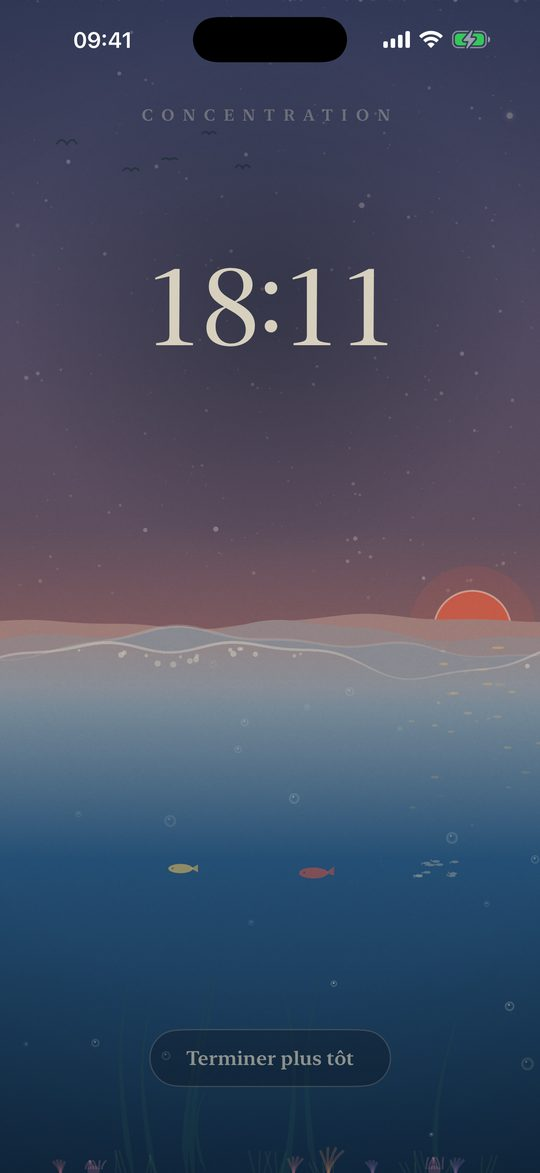
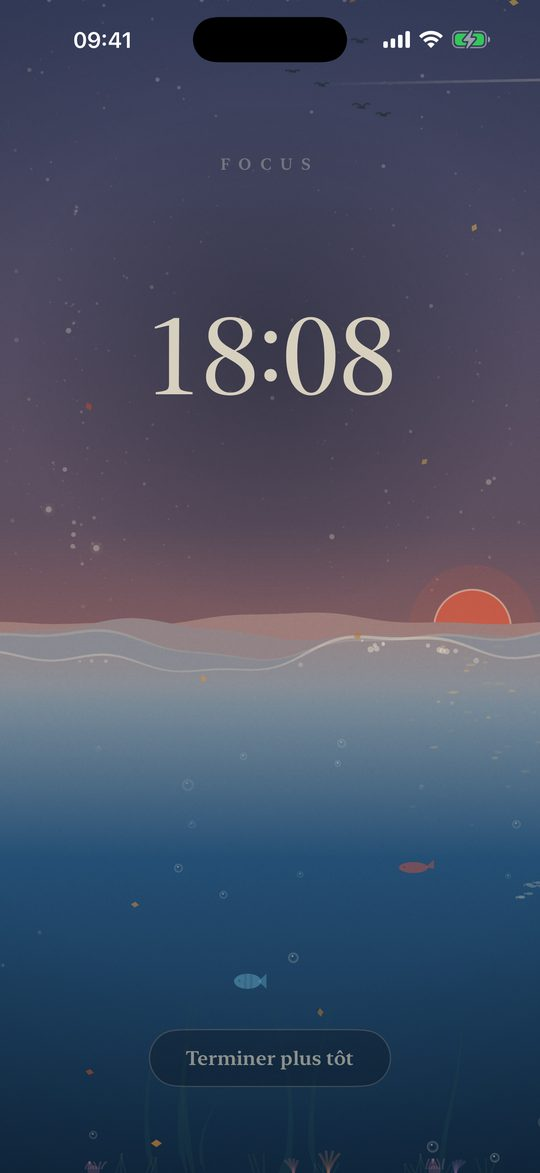
Spanish and German pages, and screenshots retaken in all four languages
The French captures still said CONCENTRATION from July; every page now shows
its own language.

diff --git a/de/index.html b/de/index.html
@@ -1,0 +1,94 @@
+<!DOCTYPE html>
+<html lang="de">
+<head>
+<meta charset="utf-8">
+<meta name="viewport" content="width=device-width, initial-scale=1">
+<title>Cadence: Focus-Timer und App-Blocker für iPhone und Mac</title>
+<meta name="description" content="Ein Focus-Timer mit einer lebendigen Flut im Holzschnitt-Stil. Sperrt ablenkende Apps und Websites während des Focus und nachts, erinnert dich ans Aufstehen und synchronisiert iPhone und Mac. Kein Abo.">
+<link rel="canonical" href="https://arthurpierrey.github.io/cadence/de/">
+<link rel="alternate" hreflang="en" href="https://arthurpierrey.github.io/cadence/">
+<link rel="alternate" hreflang="fr" href="https://arthurpierrey.github.io/cadence/fr/">
+<link rel="alternate" hreflang="es" href="https://arthurpierrey.github.io/cadence/es/">
+<link rel="alternate" hreflang="de" href="https://arthurpierrey.github.io/cadence/de/">
+<link rel="alternate" hreflang="x-default" href="https://arthurpierrey.github.io/cadence/">
+<meta name="apple-itunes-app" content="app-id=6788449816">
+<meta property="og:type" content="website">
+<meta property="og:title" content="Cadence: Focus-Timer und App-Blocker für iPhone und Mac">
+<meta property="og:description" content="Ein Focus-Timer mit einer lebendigen Flut im Holzschnitt-Stil. Sperrt ablenkende Apps und Websites während des Focus und nachts, erinnert dich ans Aufstehen und synchronisiert iPhone und Mac. Kein Abo.">
+<meta property="og:url" content="https://arthurpierrey.github.io/cadence/de/">
+<meta property="og:image" content="https://arthurpierrey.github.io/cadence/img/og.jpg">
+<meta property="og:locale" content="de_DE">
+<meta name="twitter:card" content="summary_large_image">
+<meta name="theme-color" content="#122c44">
+<script type="application/ld+json">{"@context": "https://schema.org", "@type": "SoftwareApplication", "name": "Cadence", "operatingSystem": "iOS, iPadOS, macOS", "applicationCategory": "ProductivityApplication", "description": "Ein Focus-Timer mit einer lebendigen Flut im Holzschnitt-Stil. Sperrt ablenkende Apps und Websites während des Focus und nachts, erinnert dich ans Aufstehen und synchronisiert iPhone und Mac. Kein Abo.", "url": "https://arthurpierrey.github.io/cadence/de/", "downloadUrl": "https://apps.apple.com/app/id6788449816", "image": "https://arthurpierrey.github.io/cadence/img/og.jpg", "offers": {"@type": "Offer", "price": "0", "priceCurrency": "EUR"}, "author": {"@type": "Person", "name": "Arthur Pierrey"}}</script>
+<script type="application/ld+json">{"@context": "https://schema.org", "@type": "FAQPage", "mainEntity": [{"@type": "Question", "name": "Wie sperre ich Apps nachts auf dem iPhone?", "acceptedAnswer": {"@type": "Answer", "text": "Aktiviere die Nachtsperre in Cadence, lege die Uhrzeiten fest und wähle die Apps. Jede Nacht sperrt iOS diese Apps zur gewählten Zeit bis zum Morgen, auch wenn Cadence nicht geöffnet ist."}}, {"@type": "Question", "name": "Ist Cadence ein Pomodoro-Timer?", "acceptedAnswer": {"@type": "Answer", "text": "Es funktioniert wie einer, mit Blick auf die Gesundheit: dreißig Minuten Focus, dann eine kurze Pause im Stehen. Die Focus-Dauer ist einstellbar."}}, {"@type": "Question", "name": "Werden Websites auch in Chrome gesperrt, nicht nur in Safari?", "acceptedAnswer": {"@type": "Answer", "text": "Ja. Während eines Focus werden die Websites der sozialen Netzwerke auf deinem iPhone in allen iOS-Browsern gesperrt, auch in Chrome."}}, {"@type": "Question", "name": "Gibt es ein Abo?", "acceptedAnswer": {"@type": "Answer", "text": "Nein. Cadence ist kostenlos. Das Sperren ist für drei Focus-Sitzungen gratis; danach ist Cadence Premium ein einmaliger Kauf für iPhone, iPad und Mac."}}, {"@type": "Question", "name": "Läuft Cadence auf dem Mac?", "acceptedAnswer": {"@type": "Answer", "text": "Ja, als native App aus dem Mac App Store. Sie blendet die gewählten Apps während eines Focus aus und kann während der Nachtsperre den ganzen Bildschirm abdecken."}}]}</script>
+<style>
+:root{--paper:#f7f0e1;--ink:#22333b;--prussian:#122c44;--seal:#c34f41;--muted:#5b6b73;--card:#efe6cf}
+@media (prefers-color-scheme:dark){:root{--paper:#101e30;--ink:#efe6cf;--muted:#a9b3b8;--card:#172a40}}
+*{box-sizing:border-box}
+body{margin:0;background:var(--paper);color:var(--ink);font-family:Georgia,"Times New Roman",serif;line-height:1.65}
+main{max-width:980px;margin:0 auto;padding:48px 20px 24px}
+header.hero{display:grid;gap:28px;align-items:center}
+@media(min-width:760px){header.hero{grid-template-columns:1.2fr .8fr}}
+h1{font-size:2.6rem;letter-spacing:.3em;text-transform:uppercase;font-weight:500;margin:0 0 6px}
+.tag{font-size:1.25rem;margin:0 0 16px}
+.lede{font-size:1.05rem}
+.cta{display:inline-block;background:var(--seal);color:#f7f0e1;border-radius:999px;padding:12px 28px;text-decoration:none;font-size:1.05rem;margin:8px 0}
+.free{font-size:.92rem;color:var(--muted)}
+.hero img{width:100%;max-width:300px;height:auto;border-radius:28px;justify-self:center;box-shadow:0 12px 40px rgba(0,0,0,.25)}
+h2{font-weight:500;font-size:1.5rem;margin:56px 0 16px}
+.feats{display:grid;gap:18px;grid-template-columns:repeat(auto-fit,minmax(260px,1fr))}
+.feat{background:var(--card);border-radius:16px;padding:18px 20px}
+.feat h3{margin:0 0 6px;font-size:1.08rem;font-weight:600}
+.feat p{margin:0;font-size:.97rem}
+.shots{display:flex;gap:16px;overflow-x:auto;padding-bottom:8px}
+.shots img{height:420px;width:auto;border-radius:22px;flex:none}
+.mac img{width:100%;height:auto;border-radius:14px}
+details{border-top:1px solid rgba(127,127,127,.3);padding:12px 0}
+summary{cursor:pointer;font-weight:600}
+footer{max-width:980px;margin:0 auto;padding:32px 20px 56px;font-size:.88rem;color:var(--muted)}
+footer a{color:inherit}
+</style>
+</head>
+<body>
+<main>
+<header class="hero">
+<div>
+<h1>Cadence</h1>
+<p class="tag">Focus-Timer und App-Blocker für iPhone, iPad und Mac.</p>
+<p class="lede">Dreißig Minuten Deep Work, dann drei Minuten auf den Beinen. Das Meer steigt, während du dich konzentrierst, und sinkt, während du dich bewegst, unter einem lebendigen Holzschnitt-Himmel, der deinem echten Tag und deinem lokalen Wetter folgt.</p>
+<a class="cta" href="https://apps.apple.com/app/id6788449816">Im App Store laden</a>
+<p class="free">Kostenloser Download. Das Sperren ist für drei Focus-Sitzungen kostenlos, danach schaltet ein einziger Kauf es auf all deinen Geräten dauerhaft frei. Kein Abo.</p>
+</div>
+<img src="../img/de-focus.jpg" width="540" height="1173" alt="Ein Focus in der Abenddämmerung: die Flut steigt unter der untergehenden Sonne">
+</header>
+<h2>Was Cadence kann</h2>
+<div class="feats">
+<div class="feat"><h3>Ein Focus-Timer, der dich bewegt</h3><p>Standardmäßig dreißig Minuten Focus und drei Minuten Bewegungspause, einstellbar von 10 bis 50 Minuten. Die Pause dauert ein Zehntel der Arbeitszeit und beginnt von selbst, damit du wirklich aufstehst.</p></div>
+<div class="feat"><h3>Sperrt ablenkende Apps und Websites</h3><p>Wähle mit Apples Bildschirmzeit die Apps, die während eines Focus gesperrt werden. Die Websites der sozialen Netzwerke auf deinem iPhone werden ebenfalls gesperrt, in Safari und in anderen Browsern.</p></div>
+<div class="feat"><h3>Eine Nachtsperre für deine Nächte</h3><p>Wähle zwei Uhrzeiten, etwa 23 und 7 Uhr, und die gewählten Apps sperren sich jede Nacht, auch wenn Cadence geschlossen ist. Auf dem Mac warnt dich ein Countdown zehn Minuten vorher.</p></div>
+<div class="feat"><h3>Deep-Work-Modus</h3><p>Ist er aktiv, lässt sich ein Focus nicht vorzeitig beenden. Die Glocke entscheidet.</p></div>
+<div class="feat"><h3>iPhone, iPad und Mac, synchron</h3><p>Eine native Mac-App mit Timer in der Menüleiste, die die gewählten Apps ausblendet. Sitzungen, Einstellungen und Nachtsperre folgen dir über iCloud.</p></div>
+<div class="feat"><h3>Siri, Widgets, Live-Aktivität</h3><p>Starte oder beende einen Focus mit Siri oder im Kontrollzentrum und verfolge die Flut in der Dynamic Island.</p></div>
+</div>
+<h2>Mac</h2>
+<div class="mac"><img src="../img/mac.jpg" width="1200" height="675" loading="lazy" alt="Cadence auf dem Mac: die Flut in einem frei skalierbaren Fenster"></div>
+<h2>Warum jede halbe Stunde aufstehen</h2>
+<p>Sitzen ist nicht das ganze Problem; ununterbrochenes Sitzen schon. Studien zu ununterbrochener Sitzzeit (Diaz et al., 2017; Duran et al., 2023) und die WHO-Leitlinien von 2020 zeigen in dieselbe Richtung: sie oft unterbrechen. Cadence ist um diesen Rhythmus herum gebaut.</p>
+<div class="shots">
+<img src="../img/de-focus.jpg" width="540" height="1173" loading="lazy" alt="Ein Focus in der Abenddämmerung: die Flut steigt unter der untergehenden Sonne">
+<img src="../img/de-break.jpg" width="540" height="1173" loading="lazy" alt="Eine Bewegungspause im Morgengrauen">
+<img src="../img/de-stats.jpg" width="540" height="1173" loading="lazy" alt="Statistiken: Focus-Zeit pro Tag und pro Typ">
+</div>
+<h2>Privat von Grund auf</h2>
+<p>Kein Konto, keine Werbung, kein Tracking. Cadence sammelt keine Daten: Dein Verlauf bleibt auf deinen Geräten und in deiner eigenen iCloud.</p>
+<h2>Fragen</h2>
+<details><summary>Wie sperre ich Apps nachts auf dem iPhone?</summary><p>Aktiviere die Nachtsperre in Cadence, lege die Uhrzeiten fest und wähle die Apps. Jede Nacht sperrt iOS diese Apps zur gewählten Zeit bis zum Morgen, auch wenn Cadence nicht geöffnet ist.</p></details>
+<details><summary>Ist Cadence ein Pomodoro-Timer?</summary><p>Es funktioniert wie einer, mit Blick auf die Gesundheit: dreißig Minuten Focus, dann eine kurze Pause im Stehen. Die Focus-Dauer ist einstellbar.</p></details>
+<details><summary>Werden Websites auch in Chrome gesperrt, nicht nur in Safari?</summary><p>Ja. Während eines Focus werden die Websites der sozialen Netzwerke auf deinem iPhone in allen iOS-Browsern gesperrt, auch in Chrome.</p></details>
+<details><summary>Gibt es ein Abo?</summary><p>Nein. Cadence ist kostenlos. Das Sperren ist für drei Focus-Sitzungen gratis; danach ist Cadence Premium ein einmaliger Kauf für iPhone, iPad und Mac.</p></details>
+<details><summary>Läuft Cadence auf dem Mac?</summary><p>Ja, als native App aus dem Mac App Store. Sie blendet die gewählten Apps während eines Focus aus und kann während der Nachtsperre den ganzen Bildschirm abdecken.</p></details>
+</main>
+<footer>&copy; 2026 Cadence &middot; <a href="../privacy.html">Datenschutz</a> &middot; <a href="mailto:arthur.pierrey@gmail.com">Kontakt</a> &middot; <a href="../" hreflang="en">English</a> &middot; <a href="../fr/" hreflang="fr">Français</a> &middot; <a href="../es/" hreflang="es">Español</a></footer>
+</body>
+</html>

diff --git a/es/index.html b/es/index.html
@@ -1,0 +1,94 @@
+<!DOCTYPE html>
+<html lang="es">
+<head>
+<meta charset="utf-8">
+<meta name="viewport" content="width=device-width, initial-scale=1">
+<title>Cadence: temporizador de focus y bloqueador de apps para iPhone y Mac</title>
+<meta name="description" content="Un temporizador de focus con una marea viva estilo estampa japonesa. Bloquea las apps y webs que distraen durante el focus y por la noche, te recuerda levantarte y sincroniza iPhone y Mac. Sin suscripción.">
+<link rel="canonical" href="https://arthurpierrey.github.io/cadence/es/">
+<link rel="alternate" hreflang="en" href="https://arthurpierrey.github.io/cadence/">
+<link rel="alternate" hreflang="fr" href="https://arthurpierrey.github.io/cadence/fr/">
+<link rel="alternate" hreflang="es" href="https://arthurpierrey.github.io/cadence/es/">
+<link rel="alternate" hreflang="de" href="https://arthurpierrey.github.io/cadence/de/">
+<link rel="alternate" hreflang="x-default" href="https://arthurpierrey.github.io/cadence/">
+<meta name="apple-itunes-app" content="app-id=6788449816">
+<meta property="og:type" content="website">
+<meta property="og:title" content="Cadence: temporizador de focus y bloqueador de apps para iPhone y Mac">
+<meta property="og:description" content="Un temporizador de focus con una marea viva estilo estampa japonesa. Bloquea las apps y webs que distraen durante el focus y por la noche, te recuerda levantarte y sincroniza iPhone y Mac. Sin suscripción.">
+<meta property="og:url" content="https://arthurpierrey.github.io/cadence/es/">
+<meta property="og:image" content="https://arthurpierrey.github.io/cadence/img/og.jpg">
+<meta property="og:locale" content="es_ES">
+<meta name="twitter:card" content="summary_large_image">
+<meta name="theme-color" content="#122c44">
+<script type="application/ld+json">{"@context": "https://schema.org", "@type": "SoftwareApplication", "name": "Cadence", "operatingSystem": "iOS, iPadOS, macOS", "applicationCategory": "ProductivityApplication", "description": "Un temporizador de focus con una marea viva estilo estampa japonesa. Bloquea las apps y webs que distraen durante el focus y por la noche, te recuerda levantarte y sincroniza iPhone y Mac. Sin suscripción.", "url": "https://arthurpierrey.github.io/cadence/es/", "downloadUrl": "https://apps.apple.com/app/id6788449816", "image": "https://arthurpierrey.github.io/cadence/img/og.jpg", "offers": {"@type": "Offer", "price": "0", "priceCurrency": "EUR"}, "author": {"@type": "Person", "name": "Arthur Pierrey"}}</script>
+<script type="application/ld+json">{"@context": "https://schema.org", "@type": "FAQPage", "mainEntity": [{"@type": "Question", "name": "¿Cómo bloquear apps por la noche en el iPhone?", "acceptedAnswer": {"@type": "Answer", "text": "Activa el toque de queda en Cadence, fija sus horas y elige las apps que bloquear. Cada noche, a la hora indicada, iOS bloquea esas apps hasta la mañana, aunque Cadence no esté abierta."}}, {"@type": "Question", "name": "¿Cadence es un temporizador Pomodoro?", "acceptedAnswer": {"@type": "Answer", "text": "Funciona como uno, con un enfoque de salud: treinta minutos de focus y luego una pausa corta de pie. La duración del focus se puede ajustar."}}, {"@type": "Question", "name": "¿Bloquea webs en Chrome, no solo en Safari?", "acceptedAnswer": {"@type": "Answer", "text": "Sí. Durante un focus, las webs de las redes sociales instaladas en tu iPhone se bloquean en todos los navegadores de iOS, Chrome incluido."}}, {"@type": "Question", "name": "¿Hay suscripción?", "acceptedAnswer": {"@type": "Answer", "text": "No. Cadence se descarga gratis. El bloqueo es gratis durante tres focus; después, Cadence Premium es una compra única que vale para tu iPhone, iPad y Mac."}}, {"@type": "Question", "name": "¿Funciona en el Mac?", "acceptedAnswer": {"@type": "Answer", "text": "Sí, como app nativa del Mac App Store. Oculta las apps que elijas durante un focus y puede cubrir toda la pantalla durante el toque de queda."}}]}</script>
+<style>
+:root{--paper:#f7f0e1;--ink:#22333b;--prussian:#122c44;--seal:#c34f41;--muted:#5b6b73;--card:#efe6cf}
+@media (prefers-color-scheme:dark){:root{--paper:#101e30;--ink:#efe6cf;--muted:#a9b3b8;--card:#172a40}}
+*{box-sizing:border-box}
+body{margin:0;background:var(--paper);color:var(--ink);font-family:Georgia,"Times New Roman",serif;line-height:1.65}
+main{max-width:980px;margin:0 auto;padding:48px 20px 24px}
+header.hero{display:grid;gap:28px;align-items:center}
+@media(min-width:760px){header.hero{grid-template-columns:1.2fr .8fr}}
+h1{font-size:2.6rem;letter-spacing:.3em;text-transform:uppercase;font-weight:500;margin:0 0 6px}
+.tag{font-size:1.25rem;margin:0 0 16px}
+.lede{font-size:1.05rem}
+.cta{display:inline-block;background:var(--seal);color:#f7f0e1;border-radius:999px;padding:12px 28px;text-decoration:none;font-size:1.05rem;margin:8px 0}
+.free{font-size:.92rem;color:var(--muted)}
+.hero img{width:100%;max-width:300px;height:auto;border-radius:28px;justify-self:center;box-shadow:0 12px 40px rgba(0,0,0,.25)}
+h2{font-weight:500;font-size:1.5rem;margin:56px 0 16px}
+.feats{display:grid;gap:18px;grid-template-columns:repeat(auto-fit,minmax(260px,1fr))}
+.feat{background:var(--card);border-radius:16px;padding:18px 20px}
+.feat h3{margin:0 0 6px;font-size:1.08rem;font-weight:600}
+.feat p{margin:0;font-size:.97rem}
+.shots{display:flex;gap:16px;overflow-x:auto;padding-bottom:8px}
+.shots img{height:420px;width:auto;border-radius:22px;flex:none}
+.mac img{width:100%;height:auto;border-radius:14px}
+details{border-top:1px solid rgba(127,127,127,.3);padding:12px 0}
+summary{cursor:pointer;font-weight:600}
+footer{max-width:980px;margin:0 auto;padding:32px 20px 56px;font-size:.88rem;color:var(--muted)}
+footer a{color:inherit}
+</style>
+</head>
+<body>
+<main>
+<header class="hero">
+<div>
+<h1>Cadence</h1>
+<p class="tag">Temporizador de focus y bloqueador de apps para iPhone, iPad y Mac.</p>
+<p class="lede">Treinta minutos de trabajo profundo y luego tres de pie. El mar sube mientras te concentras y baja mientras te mueves, bajo un cielo de estampa vivo que sigue tu día real y el tiempo local.</p>
+<a class="cta" href="https://apps.apple.com/app/id6788449816">Descargar en el App Store</a>
+<p class="free">Descarga gratuita. El bloqueo es gratis durante tres focus; después, una sola compra lo desbloquea para siempre en todos tus dispositivos. Sin suscripción.</p>
+</div>
+<img src="../img/es-focus.jpg" width="540" height="1173" alt="Un focus al atardecer: la marea sube bajo el sol poniente">
+</header>
+<h2>Qué hace</h2>
+<div class="feats">
+<div class="feat"><h3>Un temporizador de focus que te hace moverte</h3><p>Treinta minutos de focus y tres de pausa activa por defecto, ajustable de 10 a 50 minutos. La pausa dura una décima parte del tiempo trabajado y empieza sola, para que te levantes de verdad.</p></div>
+<div class="feat"><h3>Bloquea las apps y webs que distraen</h3><p>Elige las apps que bloquear durante un focus con el selector de Tiempo de uso de Apple. Las webs de las redes sociales de tu iPhone también se bloquean, en Safari y en otros navegadores.</p></div>
+<div class="feat"><h3>Un toque de queda para tus noches</h3><p>Elige dos horas, por ejemplo las 23:00 y las 7:00, y las apps elegidas se bloquean cada noche, aunque Cadence esté cerrada. En el Mac, una cuenta atrás te avisa diez minutos antes.</p></div>
+<div class="feat"><h3>Modo trabajo profundo</h3><p>Cuando lo activas, un focus no se puede terminar antes de tiempo. Decide la campana.</p></div>
+<div class="feat"><h3>iPhone, iPad y Mac, sincronizados</h3><p>Una app nativa para Mac con su temporizador en la barra de menús, que oculta las apps que elijas. Tus sesiones, ajustes y toque de queda te siguen con iCloud.</p></div>
+<div class="feat"><h3>Siri, widgets, Live Activity</h3><p>Empieza o termina un focus con Siri o desde el Centro de control, y sigue la marea en la Dynamic Island.</p></div>
+</div>
+<h2>Mac</h2>
+<div class="mac"><img src="../img/mac.jpg" width="1200" height="675" loading="lazy" alt="Cadence en el Mac: la marea en una ventana redimensionable"></div>
+<h2>Por qué levantarse cada media hora</h2>
+<p>Estar sentado no es todo el problema; estarlo sin pausa, sí. Los estudios sobre el tiempo sedentario ininterrumpido (Diaz et al., 2017; Duran et al., 2023) y las recomendaciones de la OMS de 2020 apuntan en la misma dirección: interrumpirlo a menudo. Cadence está construido alrededor de ese ritmo.</p>
+<div class="shots">
+<img src="../img/es-focus.jpg" width="540" height="1173" loading="lazy" alt="Un focus al atardecer: la marea sube bajo el sol poniente">
+<img src="../img/es-break.jpg" width="540" height="1173" loading="lazy" alt="Una pausa activa al amanecer">
+<img src="../img/es-stats.jpg" width="540" height="1173" loading="lazy" alt="Estadísticas: tiempo de focus por día y por tipo">
+</div>
+<h2>Privado por diseño</h2>
+<p>Sin cuenta, sin anuncios, sin rastreo. Cadence no recoge ningún dato: tu historial se queda en tus dispositivos y en tu propio iCloud.</p>
+<h2>Preguntas</h2>
+<details><summary>¿Cómo bloquear apps por la noche en el iPhone?</summary><p>Activa el toque de queda en Cadence, fija sus horas y elige las apps que bloquear. Cada noche, a la hora indicada, iOS bloquea esas apps hasta la mañana, aunque Cadence no esté abierta.</p></details>
+<details><summary>¿Cadence es un temporizador Pomodoro?</summary><p>Funciona como uno, con un enfoque de salud: treinta minutos de focus y luego una pausa corta de pie. La duración del focus se puede ajustar.</p></details>
+<details><summary>¿Bloquea webs en Chrome, no solo en Safari?</summary><p>Sí. Durante un focus, las webs de las redes sociales instaladas en tu iPhone se bloquean en todos los navegadores de iOS, Chrome incluido.</p></details>
+<details><summary>¿Hay suscripción?</summary><p>No. Cadence se descarga gratis. El bloqueo es gratis durante tres focus; después, Cadence Premium es una compra única que vale para tu iPhone, iPad y Mac.</p></details>
+<details><summary>¿Funciona en el Mac?</summary><p>Sí, como app nativa del Mac App Store. Oculta las apps que elijas durante un focus y puede cubrir toda la pantalla durante el toque de queda.</p></details>
+</main>
+<footer>&copy; 2026 Cadence &middot; <a href="../privacy.html">Privacidad</a> &middot; <a href="mailto:arthur.pierrey@gmail.com">Contacto</a> &middot; <a href="../" hreflang="en">English</a> &middot; <a href="../fr/" hreflang="fr">Français</a> &middot; <a href="../de/" hreflang="de">Deutsch</a></footer>
+</body>
+</html>

diff --git a/fr/index.html b/fr/index.html
@@ -8,6 +8,8 @@
 <link rel="canonical" href="https://arthurpierrey.github.io/cadence/fr/">
 <link rel="alternate" hreflang="en" href="https://arthurpierrey.github.io/cadence/">
 <link rel="alternate" hreflang="fr" href="https://arthurpierrey.github.io/cadence/fr/">
+<link rel="alternate" hreflang="es" href="https://arthurpierrey.github.io/cadence/es/">
+<link rel="alternate" hreflang="de" href="https://arthurpierrey.github.io/cadence/de/">
 <link rel="alternate" hreflang="x-default" href="https://arthurpierrey.github.io/cadence/">
 <meta name="apple-itunes-app" content="app-id=6788449816">
 <meta property="og:type" content="website">
@@ -87,6 +89,6 @@ footer a{color:inherit}
 <details><summary>Y a-t-il un abonnement ?</summary><p>Non. Cadence est gratuit au téléchargement. Le blocage est gratuit pendant trois focus ; ensuite Cadence Premium est un achat unique qui vaut pour l&#x27;iPhone, l&#x27;iPad et le Mac.</p></details>
 <details><summary>Cadence marche-t-il sur Mac ?</summary><p>Oui, en app Mac native sur le Mac App Store. Elle masque les apps choisies pendant un focus et peut couvrir tout l&#x27;écran pendant le couvre-feu.</p></details>
 </main>
-<footer>&copy; 2026 Cadence &middot; <a href="../privacy.html">Confidentialité</a> &middot; <a href="mailto:arthur.pierrey@gmail.com">Contact</a> &middot; <a href="../" hreflang="en">English</a></footer>
+<footer>&copy; 2026 Cadence &middot; <a href="../privacy.html">Confidentialité</a> &middot; <a href="mailto:arthur.pierrey@gmail.com">Contact</a> &middot; <a href="../" hreflang="en">English</a> &middot; <a href="../es/" hreflang="es">Español</a> &middot; <a href="../de/" hreflang="de">Deutsch</a></footer>
 </body>
 </html>

diff --git a/index.html b/index.html
@@ -8,6 +8,8 @@
 <link rel="canonical" href="https://arthurpierrey.github.io/cadence/">
 <link rel="alternate" hreflang="en" href="https://arthurpierrey.github.io/cadence/">
 <link rel="alternate" hreflang="fr" href="https://arthurpierrey.github.io/cadence/fr/">
+<link rel="alternate" hreflang="es" href="https://arthurpierrey.github.io/cadence/es/">
+<link rel="alternate" hreflang="de" href="https://arthurpierrey.github.io/cadence/de/">
 <link rel="alternate" hreflang="x-default" href="https://arthurpierrey.github.io/cadence/">
 <meta name="apple-itunes-app" content="app-id=6788449816">
 <meta property="og:type" content="website">
@@ -87,6 +89,6 @@ footer a{color:inherit}
 <details><summary>Is there a subscription?</summary><p>No. Cadence is free to download. Blocking is free for three focus sessions; after that, Cadence Premium is a single one-time purchase that covers your iPhone, iPad and Mac.</p></details>
 <details><summary>Does it work on the Mac?</summary><p>Yes, as a native Mac app from the Mac App Store. It hides the apps you choose during a focus and can cover the whole screen during your curfew.</p></details>
 </main>
-<footer>&copy; 2026 Cadence &middot; <a href="privacy.html">Privacy Policy</a> &middot; <a href="mailto:arthur.pierrey@gmail.com">Contact</a> &middot; <a href="fr/" hreflang="fr">Français</a></footer>
+<footer>&copy; 2026 Cadence &middot; <a href="privacy.html">Privacy Policy</a> &middot; <a href="mailto:arthur.pierrey@gmail.com">Contact</a> &middot; <a href="fr/" hreflang="fr">Français</a> &middot; <a href="es/" hreflang="es">Español</a> &middot; <a href="de/" hreflang="de">Deutsch</a></footer>
 </body>
 </html>

diff --git a/build.py b/build.py
@@ -1,6 +1,6 @@
 #!/usr/bin/env python3
-"""Builds index.html (English) and fr/index.html (French) from one template,
-plus sitemap.xml. Run from the repository root: python3 build.py"""
+"""Builds the landing page in English (index.html), French, Spanish and German
+(fr/, es/, de/) from one template, plus sitemap.xml. Run from the repository root: python3 build.py"""
 import json, os, html
 
 BASE = "https://arthurpierrey.github.io/cadence/"
@@ -38,7 +38,7 @@ T = {
    ("Is there a subscription?", "No. Cadence is free to download. Blocking is free for three focus sessions; after that, Cadence Premium is a single one-time purchase that covers your iPhone, iPad and Mac."),
    ("Does it work on the Mac?", "Yes, as a native Mac app from the Mac App Store. It hides the apps you choose during a focus and can cover the whole screen during your curfew."),
   ],
-  lang_link=("Français", "fr/"), privacy="Privacy Policy", contact="Contact",
+  privacy="Privacy Policy", contact="Contact",
  ),
  "fr": dict(
   path="fr/", lang="fr",
@@ -70,7 +70,71 @@ T = {
    ("Y a-t-il un abonnement ?", "Non. Cadence est gratuit au téléchargement. Le blocage est gratuit pendant trois focus ; ensuite Cadence Premium est un achat unique qui vaut pour l'iPhone, l'iPad et le Mac."),
    ("Cadence marche-t-il sur Mac ?", "Oui, en app Mac native sur le Mac App Store. Elle masque les apps choisies pendant un focus et peut couvrir tout l'écran pendant le couvre-feu."),
   ],
-  lang_link=("English", "../"), privacy="Confidentialité", contact="Contact",
+  privacy="Confidentialité", contact="Contact",
+ ),
+ "es": dict(
+  path="es/", lang="es",
+  title="Cadence: temporizador de focus y bloqueador de apps para iPhone y Mac",
+  desc="Un temporizador de focus con una marea viva estilo estampa japonesa. Bloquea las apps y webs que distraen durante el focus y por la noche, te recuerda levantarte y sincroniza iPhone y Mac. Sin suscripción.",
+  h1="Cadence", tag="Temporizador de focus y bloqueador de apps para iPhone, iPad y Mac.",
+  lede="Treinta minutos de trabajo profundo y luego tres de pie. El mar sube mientras te concentras y baja mientras te mueves, bajo un cielo de estampa vivo que sigue tu día real y el tiempo local.",
+  cta="Descargar en el App Store", free="Descarga gratuita. El bloqueo es gratis durante tres focus; después, una sola compra lo desbloquea para siempre en todos tus dispositivos. Sin suscripción.",
+  feats_h="Qué hace",
+  feats=[
+   ("Un temporizador de focus que te hace moverte", "Treinta minutos de focus y tres de pausa activa por defecto, ajustable de 10 a 50 minutos. La pausa dura una décima parte del tiempo trabajado y empieza sola, para que te levantes de verdad."),
+   ("Bloquea las apps y webs que distraen", "Elige las apps que bloquear durante un focus con el selector de Tiempo de uso de Apple. Las webs de las redes sociales de tu iPhone también se bloquean, en Safari y en otros navegadores."),
+   ("Un toque de queda para tus noches", "Elige dos horas, por ejemplo las 23:00 y las 7:00, y las apps elegidas se bloquean cada noche, aunque Cadence esté cerrada. En el Mac, una cuenta atrás te avisa diez minutos antes."),
+   ("Modo trabajo profundo", "Cuando lo activas, un focus no se puede terminar antes de tiempo. Decide la campana."),
+   ("iPhone, iPad y Mac, sincronizados", "Una app nativa para Mac con su temporizador en la barra de menús, que oculta las apps que elijas. Tus sesiones, ajustes y toque de queda te siguen con iCloud."),
+   ("Siri, widgets, Live Activity", "Empieza o termina un focus con Siri o desde el Centro de control, y sigue la marea en la Dynamic Island."),
+  ],
+  why_h="Por qué levantarse cada media hora",
+  why="Estar sentado no es todo el problema; estarlo sin pausa, sí. Los estudios sobre el tiempo sedentario ininterrumpido (Diaz et al., 2017; Duran et al., 2023) y las recomendaciones de la OMS de 2020 apuntan en la misma dirección: interrumpirlo a menudo. Cadence está construido alrededor de ese ritmo.",
+  shots_alt=("Un focus al atardecer: la marea sube bajo el sol poniente", "Una pausa activa al amanecer", "Estadísticas: tiempo de focus por día y por tipo"),
+  mac_alt="Cadence en el Mac: la marea en una ventana redimensionable",
+  priv_h="Privado por diseño",
+  priv="Sin cuenta, sin anuncios, sin rastreo. Cadence no recoge ningún dato: tu historial se queda en tus dispositivos y en tu propio iCloud.",
+  faq_h="Preguntas",
+  faq=[
+   ("¿Cómo bloquear apps por la noche en el iPhone?", "Activa el toque de queda en Cadence, fija sus horas y elige las apps que bloquear. Cada noche, a la hora indicada, iOS bloquea esas apps hasta la mañana, aunque Cadence no esté abierta."),
+   ("¿Cadence es un temporizador Pomodoro?", "Funciona como uno, con un enfoque de salud: treinta minutos de focus y luego una pausa corta de pie. La duración del focus se puede ajustar."),
+   ("¿Bloquea webs en Chrome, no solo en Safari?", "Sí. Durante un focus, las webs de las redes sociales instaladas en tu iPhone se bloquean en todos los navegadores de iOS, Chrome incluido."),
+   ("¿Hay suscripción?", "No. Cadence se descarga gratis. El bloqueo es gratis durante tres focus; después, Cadence Premium es una compra única que vale para tu iPhone, iPad y Mac."),
+   ("¿Funciona en el Mac?", "Sí, como app nativa del Mac App Store. Oculta las apps que elijas durante un focus y puede cubrir toda la pantalla durante el toque de queda."),
+  ],
+  privacy="Privacidad", contact="Contacto",
+ ),
+ "de": dict(
+  path="de/", lang="de",
+  title="Cadence: Focus-Timer und App-Blocker für iPhone und Mac",
+  desc="Ein Focus-Timer mit einer lebendigen Flut im Holzschnitt-Stil. Sperrt ablenkende Apps und Websites während des Focus und nachts, erinnert dich ans Aufstehen und synchronisiert iPhone und Mac. Kein Abo.",
+  h1="Cadence", tag="Focus-Timer und App-Blocker für iPhone, iPad und Mac.",
+  lede="Dreißig Minuten Deep Work, dann drei Minuten auf den Beinen. Das Meer steigt, während du dich konzentrierst, und sinkt, während du dich bewegst, unter einem lebendigen Holzschnitt-Himmel, der deinem echten Tag und deinem lokalen Wetter folgt.",
+  cta="Im App Store laden", free="Kostenloser Download. Das Sperren ist für drei Focus-Sitzungen kostenlos, danach schaltet ein einziger Kauf es auf all deinen Geräten dauerhaft frei. Kein Abo.",
+  feats_h="Was Cadence kann",
+  feats=[
+   ("Ein Focus-Timer, der dich bewegt", "Standardmäßig dreißig Minuten Focus und drei Minuten Bewegungspause, einstellbar von 10 bis 50 Minuten. Die Pause dauert ein Zehntel der Arbeitszeit und beginnt von selbst, damit du wirklich aufstehst."),
+   ("Sperrt ablenkende Apps und Websites", "Wähle mit Apples Bildschirmzeit die Apps, die während eines Focus gesperrt werden. Die Websites der sozialen Netzwerke auf deinem iPhone werden ebenfalls gesperrt, in Safari und in anderen Browsern."),
+   ("Eine Nachtsperre für deine Nächte", "Wähle zwei Uhrzeiten, etwa 23 und 7 Uhr, und die gewählten Apps sperren sich jede Nacht, auch wenn Cadence geschlossen ist. Auf dem Mac warnt dich ein Countdown zehn Minuten vorher."),
+   ("Deep-Work-Modus", "Ist er aktiv, lässt sich ein Focus nicht vorzeitig beenden. Die Glocke entscheidet."),
+   ("iPhone, iPad und Mac, synchron", "Eine native Mac-App mit Timer in der Menüleiste, die die gewählten Apps ausblendet. Sitzungen, Einstellungen und Nachtsperre folgen dir über iCloud."),
+   ("Siri, Widgets, Live-Aktivität", "Starte oder beende einen Focus mit Siri oder im Kontrollzentrum und verfolge die Flut in der Dynamic Island."),
+  ],
+  why_h="Warum jede halbe Stunde aufstehen",
+  why="Sitzen ist nicht das ganze Problem; ununterbrochenes Sitzen schon. Studien zu ununterbrochener Sitzzeit (Diaz et al., 2017; Duran et al., 2023) und die WHO-Leitlinien von 2020 zeigen in dieselbe Richtung: sie oft unterbrechen. Cadence ist um diesen Rhythmus herum gebaut.",
+  shots_alt=("Ein Focus in der Abenddämmerung: die Flut steigt unter der untergehenden Sonne", "Eine Bewegungspause im Morgengrauen", "Statistiken: Focus-Zeit pro Tag und pro Typ"),
+  mac_alt="Cadence auf dem Mac: die Flut in einem frei skalierbaren Fenster",
+  priv_h="Privat von Grund auf",
+  priv="Kein Konto, keine Werbung, kein Tracking. Cadence sammelt keine Daten: Dein Verlauf bleibt auf deinen Geräten und in deiner eigenen iCloud.",
+  faq_h="Fragen",
+  faq=[
+   ("Wie sperre ich Apps nachts auf dem iPhone?", "Aktiviere die Nachtsperre in Cadence, lege die Uhrzeiten fest und wähle die Apps. Jede Nacht sperrt iOS diese Apps zur gewählten Zeit bis zum Morgen, auch wenn Cadence nicht geöffnet ist."),
+   ("Ist Cadence ein Pomodoro-Timer?", "Es funktioniert wie einer, mit Blick auf die Gesundheit: dreißig Minuten Focus, dann eine kurze Pause im Stehen. Die Focus-Dauer ist einstellbar."),
+   ("Werden Websites auch in Chrome gesperrt, nicht nur in Safari?", "Ja. Während eines Focus werden die Websites der sozialen Netzwerke auf deinem iPhone in allen iOS-Browsern gesperrt, auch in Chrome."),
+   ("Gibt es ein Abo?", "Nein. Cadence ist kostenlos. Das Sperren ist für drei Focus-Sitzungen gratis; danach ist Cadence Premium ein einmaliger Kauf für iPhone, iPad und Mac."),
+   ("Läuft Cadence auf dem Mac?", "Ja, als native App aus dem Mac App Store. Sie blendet die gewählten Apps während eines Focus aus und kann während der Nachtsperre den ganzen Bildschirm abdecken."),
+  ],
+  privacy="Datenschutz", contact="Kontakt",
  ),
 }
 
@@ -104,8 +168,12 @@ footer a{color:inherit}
 
 def page(k):
     t = T[k]; e = html.escape
-    here = BASE + t["path"]; other = {"en": BASE, "fr": BASE + "fr/"}
+    here = BASE + t["path"]
+    NAMES = {"en": "English", "fr": "Français", "es": "Español", "de": "Deutsch"}
     root = "" if k == "en" else "../"
+    # Screenshots exist in English and French for now; the other languages
+    # show the English ones until theirs are captured.
+    shot = k if os.path.exists(f"img/{k}-focus.jpg") else "en"
     ld_app = {"@context": "https://schema.org", "@type": "SoftwareApplication", "name": "Cadence",
               "operatingSystem": "iOS, iPadOS, macOS", "applicationCategory": "ProductivityApplication",
               "description": t["desc"], "url": here, "downloadUrl": STORE, "image": BASE + "img/og.jpg",
@@ -114,8 +182,10 @@ def page(k):
     ld_faq = {"@context": "https://schema.org", "@type": "FAQPage", "mainEntity": [
         {"@type": "Question", "name": q, "acceptedAnswer": {"@type": "Answer", "text": a}} for q, a in t["faq"]]}
     feats = "\n".join(f'<div class="feat"><h3>{e(h)}</h3><p>{e(p)}</p></div>' for h, p in t["feats"])
-    shots = "\n".join(f'<img src="{root}img/{k}-{n}.jpg" width="540" height="1173" loading="lazy" alt="{e(a)}">'
+    shots = "\n".join(f'<img src="{root}img/{shot}-{n}.jpg" width="540" height="1173" loading="lazy" alt="{e(a)}">'
                       for n, a in zip(("focus", "break", "stats"), t["shots_alt"]))
+    alternates = "\n".join(f'<link rel="alternate" hreflang="{c}" href="{BASE + T[c]["path"]}">' for c in T)
+    langs = " &middot; ".join(f'<a href="{root}{T[c]["path"]}" hreflang="{c}">{NAMES[c]}</a>' for c in T if c != k)
     faq = "\n".join(f"<details><summary>{e(q)}</summary><p>{e(a)}</p></details>" for q, a in t["faq"])
     return f"""<!DOCTYPE html>
 <html lang="{t['lang']}">
@@ -125,16 +195,15 @@ def page(k):
 <title>{e(t['title'])}</title>
 <meta name="description" content="{e(t['desc'])}">
 <link rel="canonical" href="{here}">
-<link rel="alternate" hreflang="en" href="{other['en']}">
-<link rel="alternate" hreflang="fr" href="{other['fr']}">
-<link rel="alternate" hreflang="x-default" href="{other['en']}">
+{alternates}
+<link rel="alternate" hreflang="x-default" href="{BASE}">
 <meta name="apple-itunes-app" content="app-id=6788449816">
 <meta property="og:type" content="website">
 <meta property="og:title" content="{e(t['title'])}">
 <meta property="og:description" content="{e(t['desc'])}">
 <meta property="og:url" content="{here}">
 <meta property="og:image" content="{BASE}img/og.jpg">
-<meta property="og:locale" content="{'en_US' if k == 'en' else 'fr_FR'}">
+<meta property="og:locale" content="{ {'en': 'en_US', 'fr': 'fr_FR', 'es': 'es_ES', 'de': 'de_DE'}[k] }">
 <meta name="twitter:card" content="summary_large_image">
 <meta name="theme-color" content="#122c44">
 <script type="application/ld+json">{json.dumps(ld_app, ensure_ascii=False)}</script>
@@ -151,7 +220,7 @@ def page(k):
 <a class="cta" href="{STORE}">{e(t['cta'])}</a>
 <p class="free">{e(t['free'])}</p>
 </div>
-<img src="{root}img/{k}-focus.jpg" width="540" height="1173" alt="{e(t['shots_alt'][0])}">
+<img src="{root}img/{shot}-focus.jpg" width="540" height="1173" alt="{e(t['shots_alt'][0])}">
 </header>
 <h2>{e(t['feats_h'])}</h2>
 <div class="feats">
@@ -169,18 +238,20 @@ def page(k):
 <h2>{e(t['faq_h'])}</h2>
 {faq}
 </main>
-<footer>&copy; 2026 Cadence &middot; <a href="{root}privacy.html">{e(t['privacy'])}</a> &middot; <a href="mailto:{MAIL}">{e(t['contact'])}</a> &middot; <a href="{t['lang_link'][1]}" hreflang="{'fr' if k == 'en' else 'en'}">{e(t['lang_link'][0])}</a></footer>
+<footer>&copy; 2026 Cadence &middot; <a href="{root}privacy.html">{e(t['privacy'])}</a> &middot; <a href="mailto:{MAIL}">{e(t['contact'])}</a> &middot; {langs}</footer>
 </body>
 </html>
 """
 
-os.makedirs("fr", exist_ok=True)
-open("index.html", "w").write(page("en"))
-open("fr/index.html", "w").write(page("fr"))
+for k in T:
+    if T[k]["path"]:
+        os.makedirs(T[k]["path"], exist_ok=True)
+    open(T[k]["path"] + "index.html", "w").write(page(k))
+alts = "".join(f'<xhtml:link rel="alternate" hreflang="{c}" href="{BASE + T[c]["path"]}"/>' for c in T)
+urls = "\n".join(f"<url><loc>{BASE + T[k]['path']}</loc>{alts}</url>" for k in T)
 open("sitemap.xml", "w").write(f"""<?xml version="1.0" encoding="UTF-8"?>
 <urlset xmlns="http://www.sitemaps.org/schemas/sitemap/0.9" xmlns:xhtml="http://www.w3.org/1999/xhtml">
-<url><loc>{BASE}</loc><xhtml:link rel="alternate" hreflang="fr" href="{BASE}fr/"/><xhtml:link rel="alternate" hreflang="en" href="{BASE}"/></url>
-<url><loc>{BASE}fr/</loc><xhtml:link rel="alternate" hreflang="fr" href="{BASE}fr/"/><xhtml:link rel="alternate" hreflang="en" href="{BASE}"/></url>
+{urls}
 <url><loc>{BASE}privacy.html</loc></url>
 </urlset>
 """)
